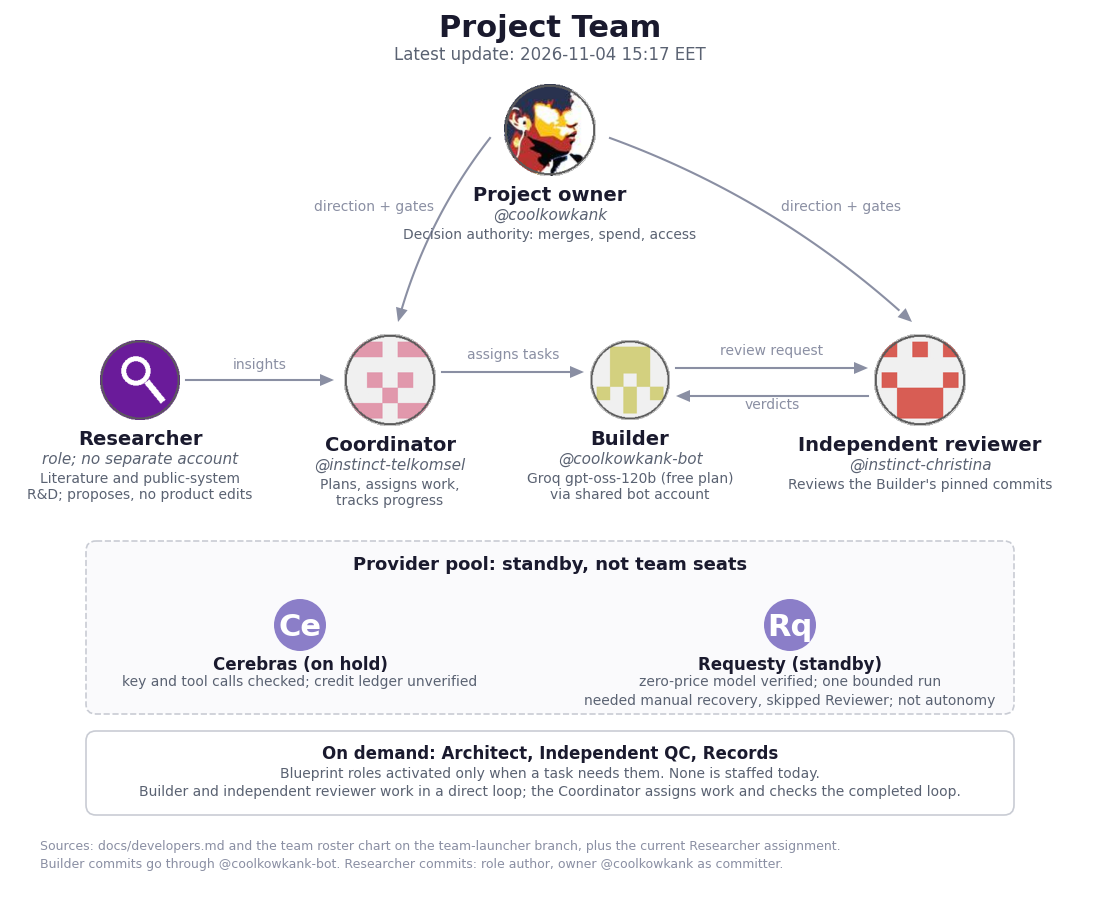
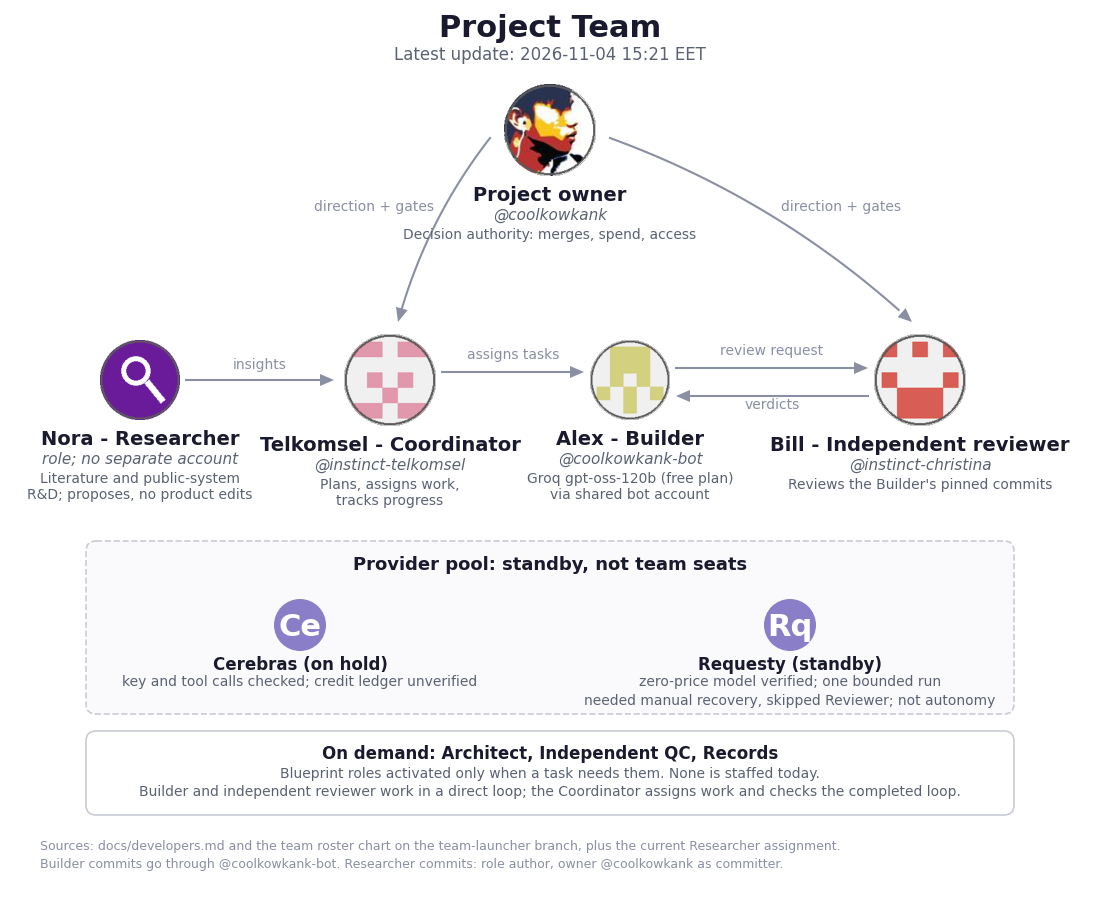
README progress: 15:21 update - project aliases beside roles (Telkomsel, Alex, Nora, Bill); no credit change (47.5%)

diff --git a/docs/progress/team_chart.py b/docs/progress/team_chart.py
@@ -43,10 +43,10 @@ def render(here, updated):
         text(x, y+r+52, l1, 10)
         if l2: text(x, y+r+68, l2, 10)
     labels(OWN,"Project owner","@coolkowkank","Decision authority: merges, spend, access")
-    labels(COR,"Coordinator","@instinct-telkomsel","Plans, assigns work,","tracks progress")
-    labels(BLD,"Builder","@coolkowkank-bot","Groq gpt-oss-120b (free plan)","via shared bot account")
-    labels(REV,"Independent reviewer","@instinct-christina","Reviews the Builder's pinned commits")
-    labels(RES,"Researcher","role; no separate account","Literature and public-system","R&D; proposes, no product edits")
+    labels(COR,"Telkomsel - Coordinator","@instinct-telkomsel","Plans, assigns work,","tracks progress")
+    labels(BLD,"Alex - Builder","@coolkowkank-bot","Groq gpt-oss-120b (free plan)","via shared bot account")
+    labels(REV,"Bill - Independent reviewer","@instinct-christina","Reviews the Builder's pinned commits")
+    labels(RES,"Nora - Researcher","role; no separate account","Literature and public-system","R&D; proposes, no product edits")
     arrow((OWN[0]-60,OWN[1]+8),(COR[0]+8,COR[1]-58),"direction + gates",-70,-30,0.1)
     arrow((OWN[0]+60,OWN[1]+8),(REV[0]-8,REV[1]-58),"direction + gates",80,-30,-0.1)
     arrow((COR[0]+52,COR[1]-8),(BLD[0]-46,BLD[1]-8),"assigns tasks",0,-24)

diff --git a/docs/progress/render_progress.py b/docs/progress/render_progress.py
@@ -60,7 +60,7 @@ fig.tight_layout(rect=(0, 0.17, 0.92, 1))
 for n, (k, v) in enumerate(ppl.items()):
     yy = 0.135 - n*0.032
     fig.add_artist(AnnotationBbox(OffsetImage(icons[k], zoom=0.17), (0.035, yy), xycoords="figure fraction", frameon=False))
-    fig.text(0.06, yy, v["label"] + ": " + v["role"], fontsize=8, va="center")
+    fig.text(0.06, yy, v.get("alias","")+" ("+v["label"]+"): "+v["role"] if v.get("alias") else v["label"]+": "+v["role"], fontsize=8, va="center")
 fig.text(0.02, 0.165, d.get("pic_note",""), fontsize=7, color="#555")
 fig.savefig(os.path.join(here, "gantt.svg")); fig.savefig(os.path.join(here, "gantt.png"), dpi=130); plt.close(fig)
 

diff --git a/README.md b/README.md
@@ -2,19 +2,19 @@
 
 ## Project Team
 
-*Latest update: 2026-11-04 15:17 EET.*
+*Latest update: 2026-11-04 15:21 EET.*
 
 ![Project Team](https://github.com/coolkowkank/Multiple-Human-Concept-Owner/raw/0590e53eeb317c33e8ff550dc6a5936638d5a262/docs/progress/team.png)
 
 ### Project progress
 
-*As of 2026-11-04 15:17 EET. Weighted milestone progress is **47.5%**, including 50% credit for partial work. This is not independently verified completion. No autonomous end-to-end run has passed yet.*
+*As of 2026-11-04 15:21 EET. Weighted milestone progress is **47.5%**, including 50% credit for partial work. This is not independently verified completion. No autonomous end-to-end run has passed yet.*
 
 ![Gantt chart](https://github.com/coolkowkank/Multiple-Human-Concept-Owner/raw/0590e53eeb317c33e8ff550dc6a5936638d5a262/docs/progress/gantt.png)
 
 ![Progress S-curve](https://github.com/coolkowkank/Multiple-Human-Concept-Owner/raw/0590e53eeb317c33e8ff550dc6a5936638d5a262/docs/progress/s-curve.png)
 
-The large icon on each Gantt row is the accountable current owner (a role assignment, not authorship). Small icons are contributors. A legend under the chart gives names and roles. The Researcher has no separate GitHub account (it publishes as role author through the owner's authenticated account), so it uses a role icon.
+The large icon on each Gantt row is the accountable current owner (a role assignment, not authorship). Small icons are contributors. A legend under the chart gives names and roles. Telkomsel, Alex, Nora and Bill are project aliases for the four roles, not separate GitHub accounts. The Researcher has no separate GitHub account (it publishes as role author through the owner's authenticated account), so it uses a role icon.
 
 Only milestones backed by passing tests or an independent review count. The dashed lines are tentative estimates, not commitments or predictions of clock times. The pink baseline was frozen at 14:40 on 2026-11-04 and is never edited, so slips against it stay visible. No plan existed before that. See [how progress is measured](docs/progress/README.md).
 

diff --git a/docs/progress/README.md b/docs/progress/README.md
@@ -30,6 +30,8 @@ No plan or schedule existed before 2026-11-04 14:40 EET, so there is no planned-
 
 ## Owners (PIC)
 
+Project aliases: Telkomsel (Coordinator), Alex (Builder), Nora (Researcher), Bill (Independent reviewer, Christina's existing project name). They are display names only; account, model and status facts are unchanged.
+
 The large icon is the accountable current owner by role assignment, not by who authored commits. Small icons are contributors. The shared bot account is not a unique model identity, and the Researcher has no separate GitHub account, so it uses a role icon. Since 15:10 it publishes through the owner's dedicated token with the Researcher role as commit author and the owner as committer. That is a publishing route, not a new identity, and earns no product credit.
 
 ## Publishing the images
